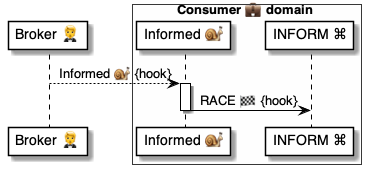
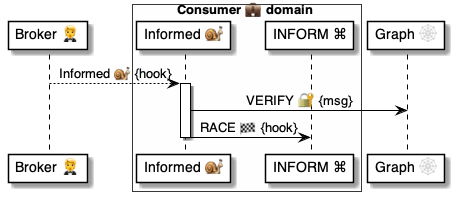
.

diff --git a/4 ⚙ Solution/41 🎭 Domain Roles/Consumers 💼/💼📨 Consumer msgs/Informed 🤵🐌💼/💼 Informed 📃 handler.md b/4 ⚙ Solution/41 🎭 Domain Roles/Consumers 💼/💼📨 Consumer msgs/Informed 🤵🐌💼/💼 Informed 📃 handler.md
@@ -14,26 +14,18 @@
 ```yaml
 📃 Informed@Consumer:
 
-
+# Verify the message
+- VERIFY|$.Msg
 
 # Assert the message
-- ASSERT|$.Msg:
-    AllOf: Hook
-    UUIDs: Hook
+- ASSERT|$.Msg.Hook
 
-# Resolve the callback
-- READ >> $invite:
-    Set: Consumer.Invites
-    Key: $.Msg.Invite
-
-# Save the received token
-- SAVE|$invite:
-    .State: HELPED
-    Token: $.Msg.Help
+# Continue the chat
+- RACE|$.Msg.Hook
 ```
 
 Uses||
 |-|-
-| [Commands ⌘](<../../../../35 💬 Chats/Scripts 📃/Command ⌘.md>) | [`ASSERT`](<../../../../37 Scripts 📃/📃 Commands ⌘/⌘ for holders 🧠/ASSERT 🚦/🚦 ASSERT ⌘ cmd.md>) [`READ`](<../../../../37 Scripts 📃/📃 Commands ⌘/⌘ for datasets 🪣/READ 🧲/🧲 READ ⌘ cmd.md>)  [`REEL`](<../../../../37 Scripts 📃/📃 Commands ⌘/⌘ for async/REEL 🎣/🎣 REEL ⌘ cmd.md>) [`VERIFY`](<../../../../37 Scripts 📃/📃 Commands ⌘/⌘ for messages 📨/VERIFY 🔐/🔐 VERIFY ⌘ cmd.md>)
+| [Commands ⌘](<../../../../35 💬 Chats/Scripts 📃/Command ⌘.md>) | [`ASSERT`](<../../../../37 Scripts 📃/📃 Commands ⌘/⌘ for holders 🧠/ASSERT 🚦/🚦 ASSERT ⌘ cmd.md>) {{RACE}} [`VERIFY`](<../../../../37 Scripts 📃/📃 Commands ⌘/⌘ for messages 📨/VERIFY 🔐/🔐 VERIFY ⌘ cmd.md>)
 | [Holders 🧠](<../../../../35 💬 Chats/Scripts 📃/Holder 🧠.md>) | [`$.Msg`](<../../../../37 Scripts 📃/📃 Holders 🧠/System holders 🔩/$.Msg 📨/📨 $.Msg 🧠 holder.md>)
 |

diff --git a/4 ⚙ Solution/41 🎭 Domain Roles/Hosts 🤗/🤗📨 Host msgs/Hello 🤵🐌🤗/🤗 Hello 📃 handler.md b/4 ⚙ Solution/41 🎭 Domain Roles/Hosts 🤗/🤗📨 Host msgs/Hello 🤵🐌🤗/🤗 Hello 📃 handler.md
@@ -1,8 +1,10 @@
-# 🤗 Hello 📃 handler
+# 🤗 Hello@Host 📃 handler
 
-> Purpose
+> About
 
 * [Script 📃](<../../../../35 💬 Chats/Scripts 📃/Script 📃.md>) that implements the [`Hello@Host` 🐌 msg](<🤗 Hello 🐌 msg.md>)
+
+<br/>
 
 ## Diagram
 
